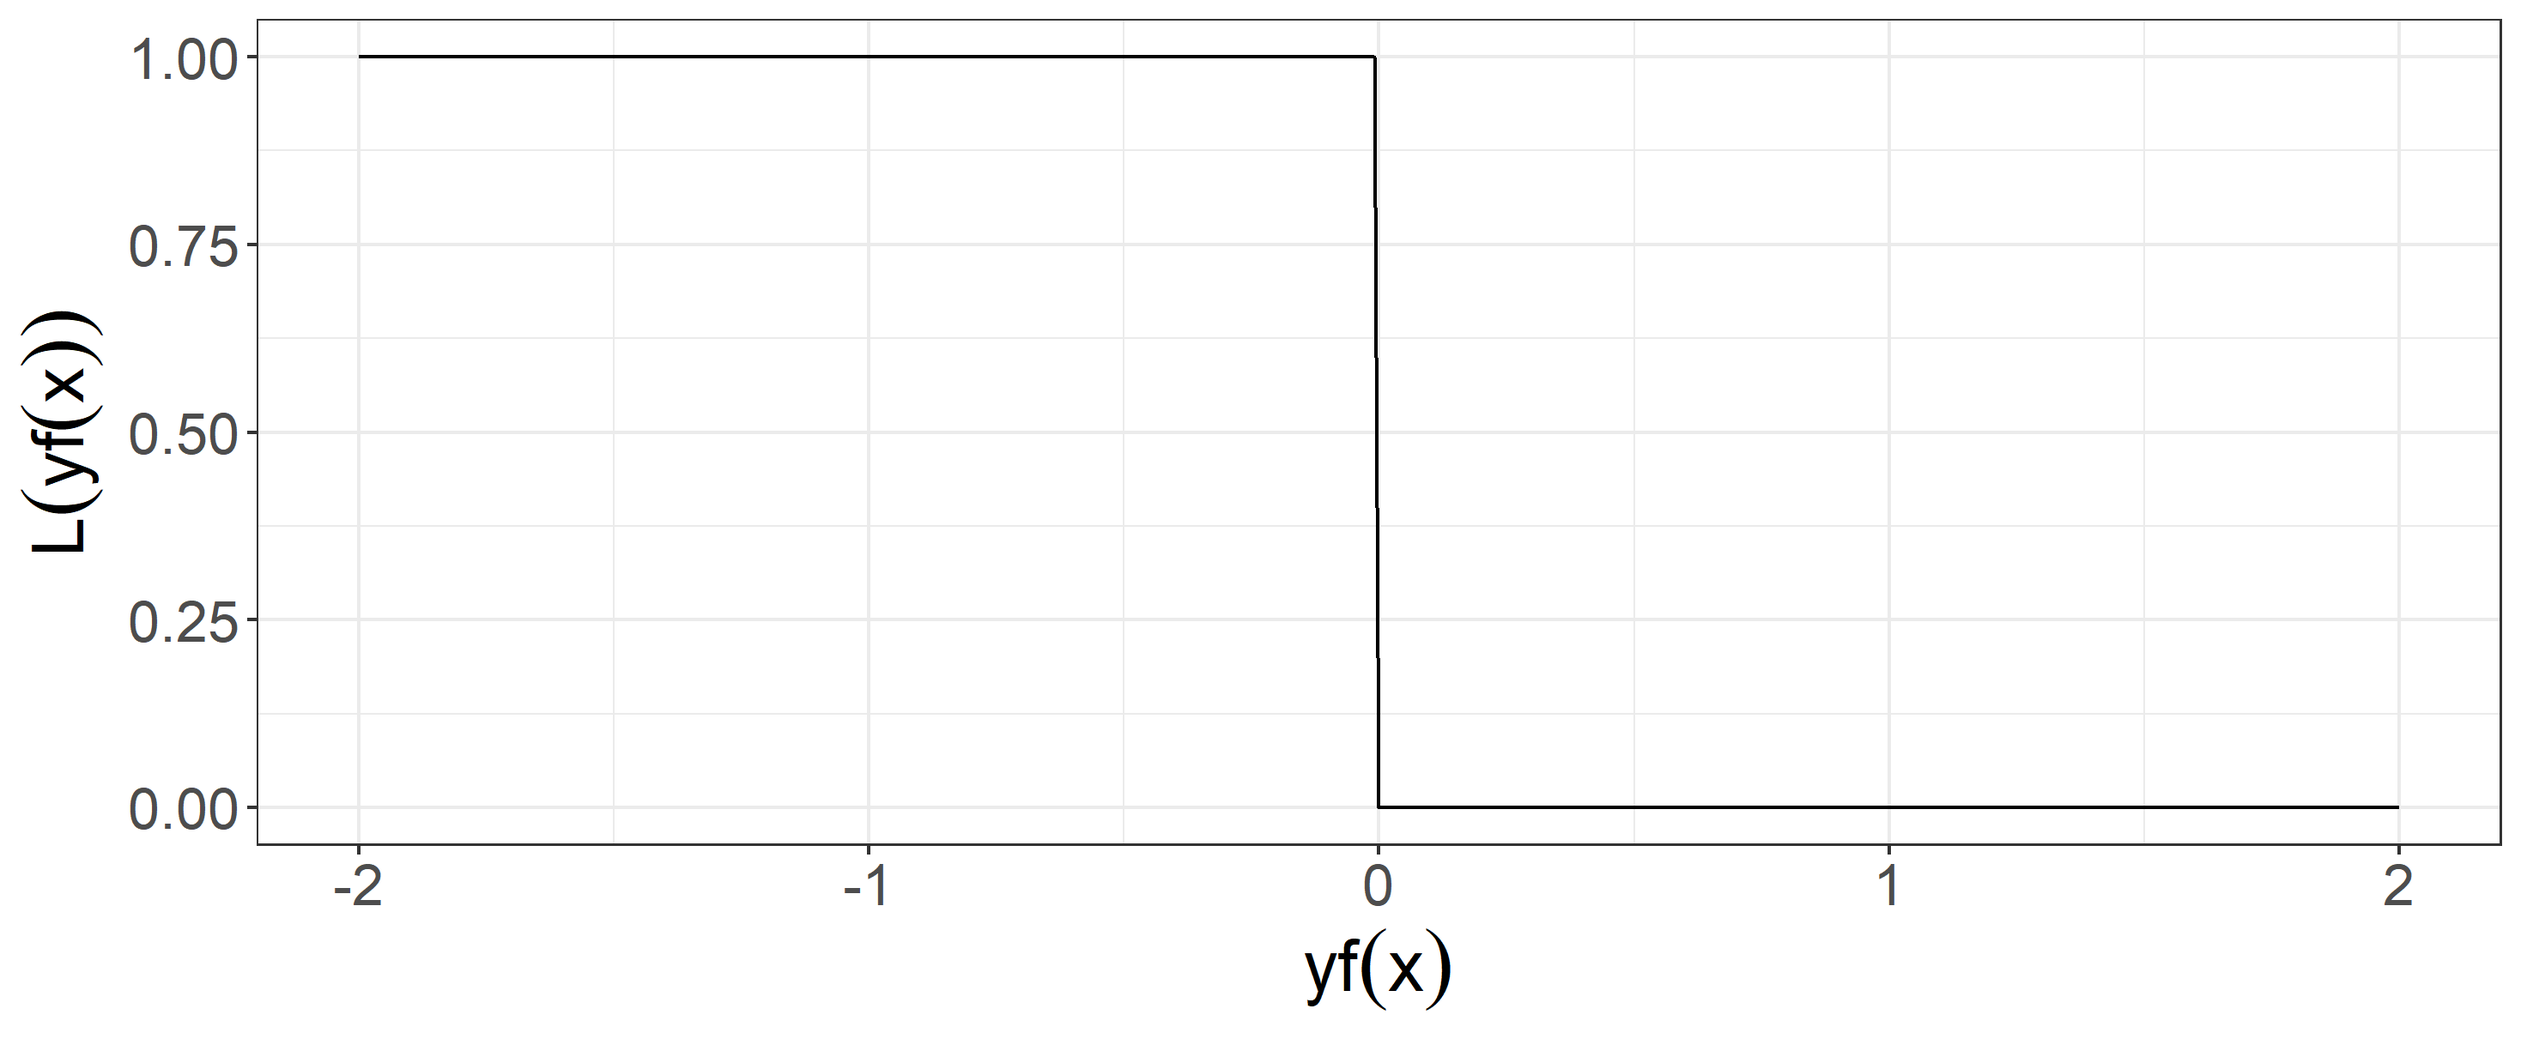
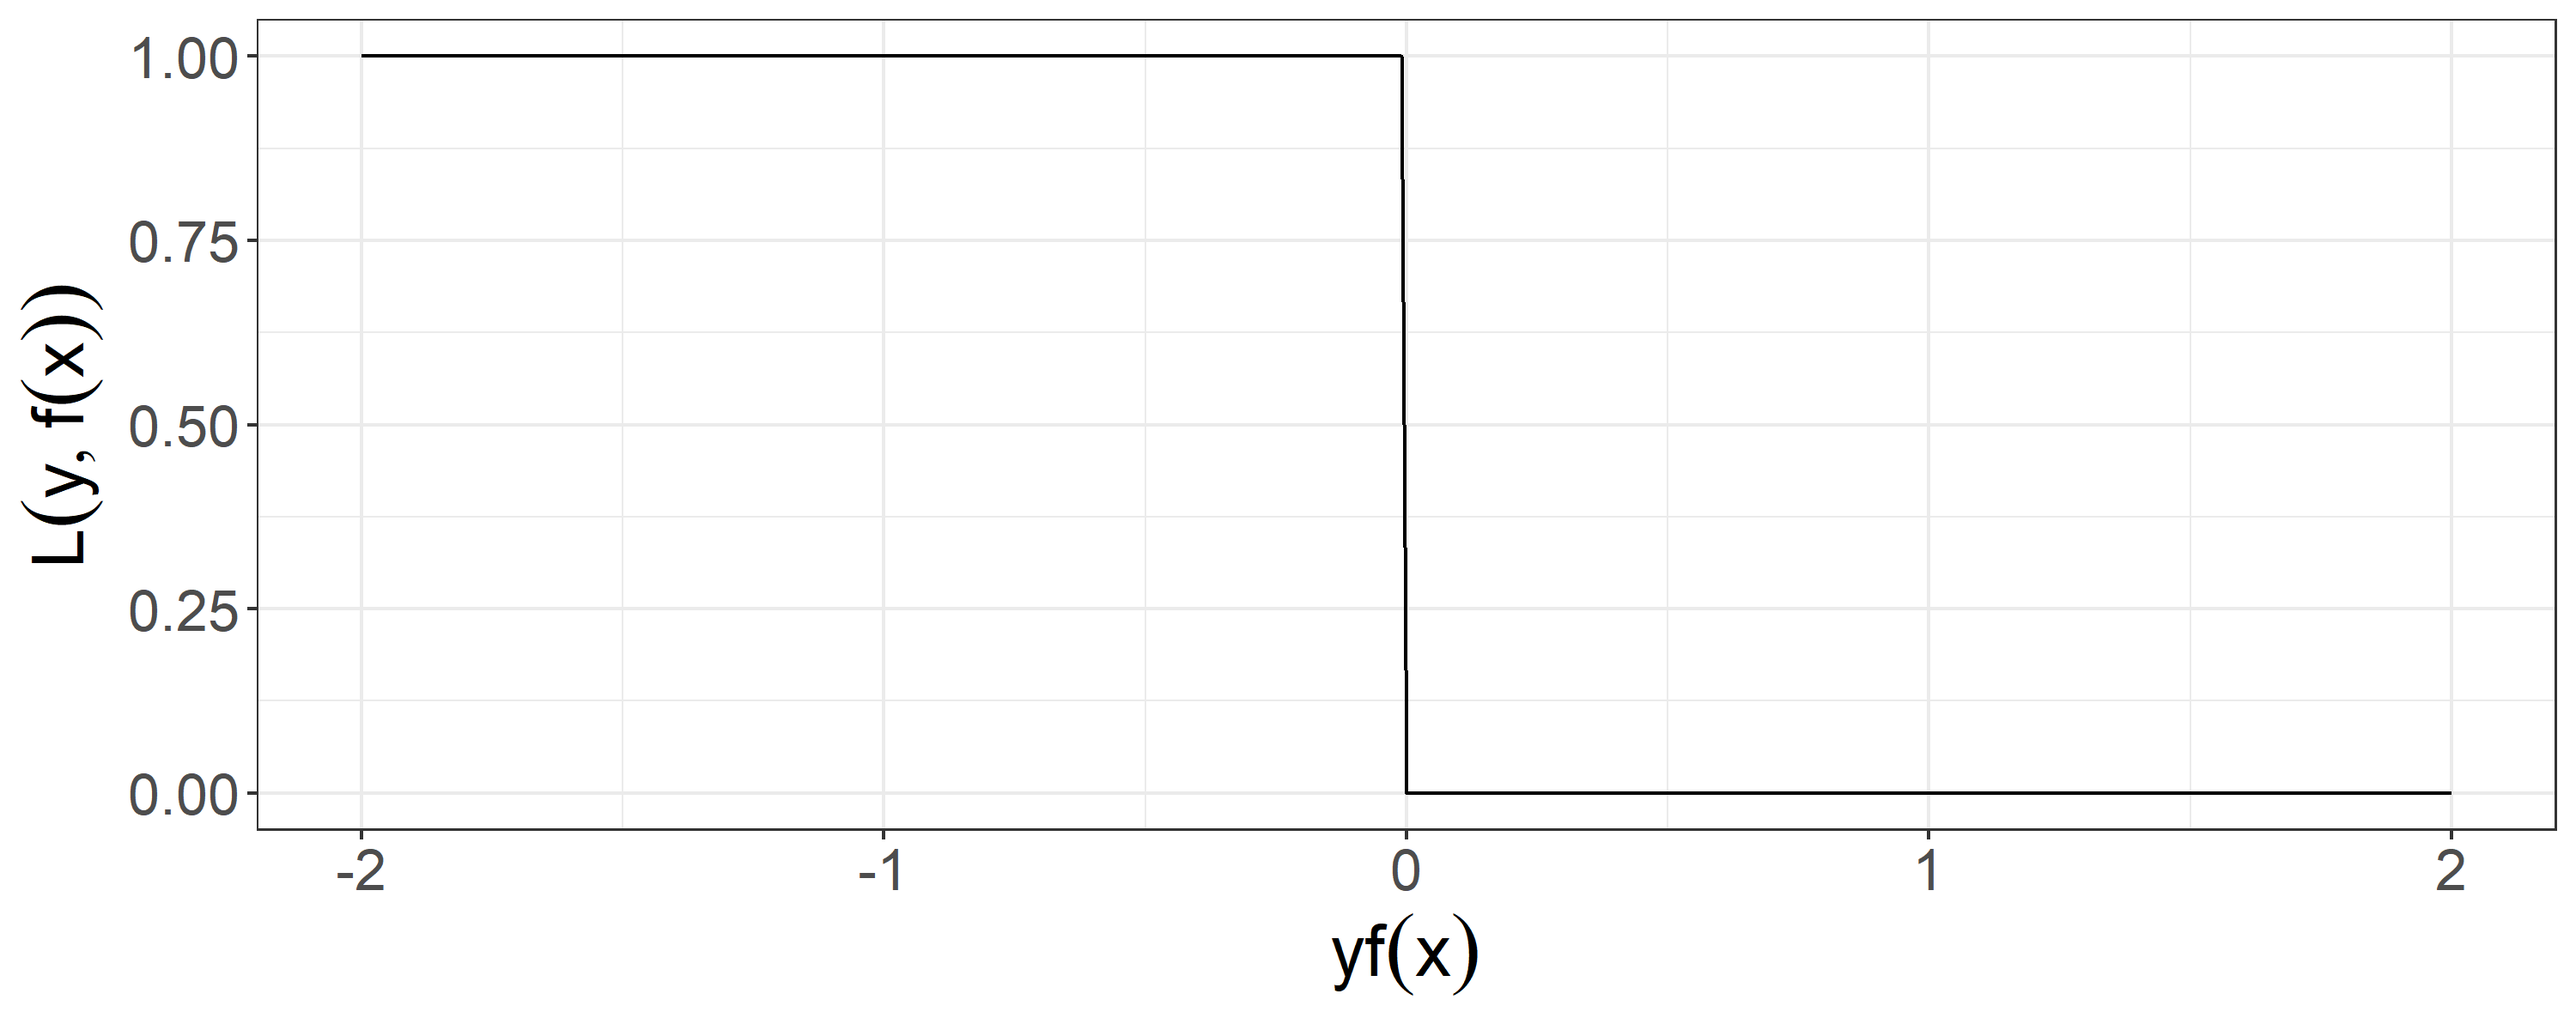
adjusted axis txt and size

diff --git a/slides/advriskmin/slides-advriskmin-cassification-01.tex b/slides/advriskmin/slides-advriskmin-cassification-01.tex
@@ -57,9 +57,11 @@ $$
 \item Analytic properties:  Not continuous, even for linear $f$ the optimization problem is NP-hard and close to intractable.
 \end{itemize}
 
+\vfill
+
 \begin{center}
 % \includegraphics[width = 11cm ]{figure_man/0-1-loss.png} \\
-\includegraphics[width = 11cm ]{figure/plot_loss_01.png}
+\includegraphics[width = 0.8\textwidth]{figure/plot_loss_01.png}
 \end{center}
 
 
